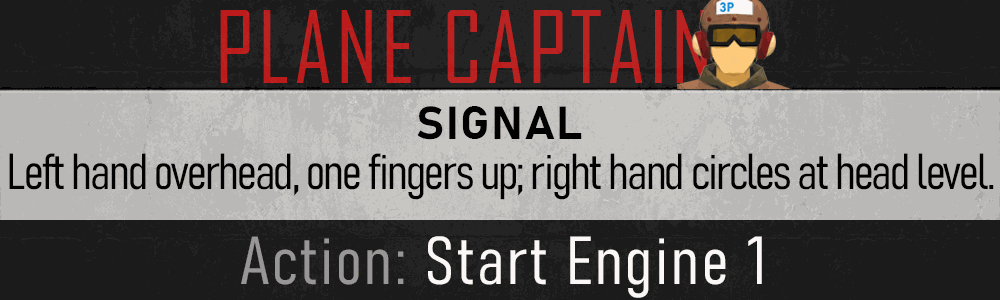
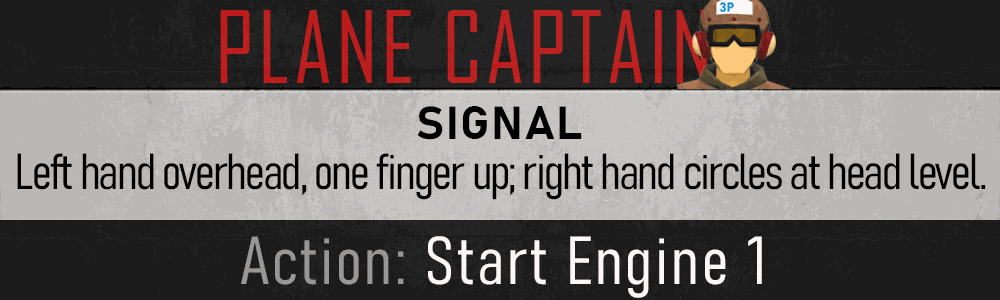
fix(score_cards): S4 card text, installer v1.2.1 numbered backups
S4 "one finger up" (Onur). install_score_display v1.2.1: asset-only updates
with an unchanged script version get _before-SD-<ver>-2.miz, -3 ... instead
of refusing. Installed into Close Air Support (L).

Claude-Session: https://claude.ai/code/session_01Jqre9wbytcnaee8hsgejqy

Changed region(s): [[0.0, 0.51, 1.0, 0.66]]

diff --git a/tools/score_cards/install_score_display.py b/tools/score_cards/install_score_display.py
@@ -1,9 +1,10 @@
-# install_score_display.py | v1.2.0
+# install_score_display.py | v1.2.1
 # Installs / updates Score_Display in a .miz IN PLACE, after a backup.
 #
 #   python tools/score_cards/install_score_display.py "<path>/Close Air Support (L).miz"
 #
-#   1. backup  -> <dir>/BackUps/<name>_before-SD-<version>.miz (refuses if it exists)
+#   1. backup  -> <dir>/BackUps/<name>_before-SD-<version>.miz; v1.2.1: if that exists
+#                 (asset-only update, same script version) -> ..._before-SD-<version>-2.miz, -3 ...
 #   2. assets  -> ScoreCards/*.png, PlaneCaptain/*.png (v1.1.0), Sounds/SCORE/*.ogg
 #                 from out/; old copies of these folders are replaced
 #   3. script  -> l10n/DEFAULT/Score_Display.lua from scripts/ (source of truth);
@@ -108,9 +109,10 @@ def main(src):
 
     bdir = os.path.join(os.path.dirname(src), "BackUps")
     os.makedirs(bdir, exist_ok=True)
-    backup = os.path.join(bdir, "%s_before-SD-%s.miz" % (os.path.splitext(os.path.basename(src))[0], ver))
-    if os.path.exists(backup):
-        sys.exit("backup exists, not overwriting: " + backup)
+    stem = "%s_before-SD-%s" % (os.path.splitext(os.path.basename(src))[0], ver)
+    backup, k = os.path.join(bdir, stem + ".miz"), 2
+    while os.path.exists(backup):
+        backup, k = os.path.join(bdir, "%s-%d.miz" % (stem, k)), k + 1
     shutil.copy2(src, backup)
     print("backup", backup)
 
